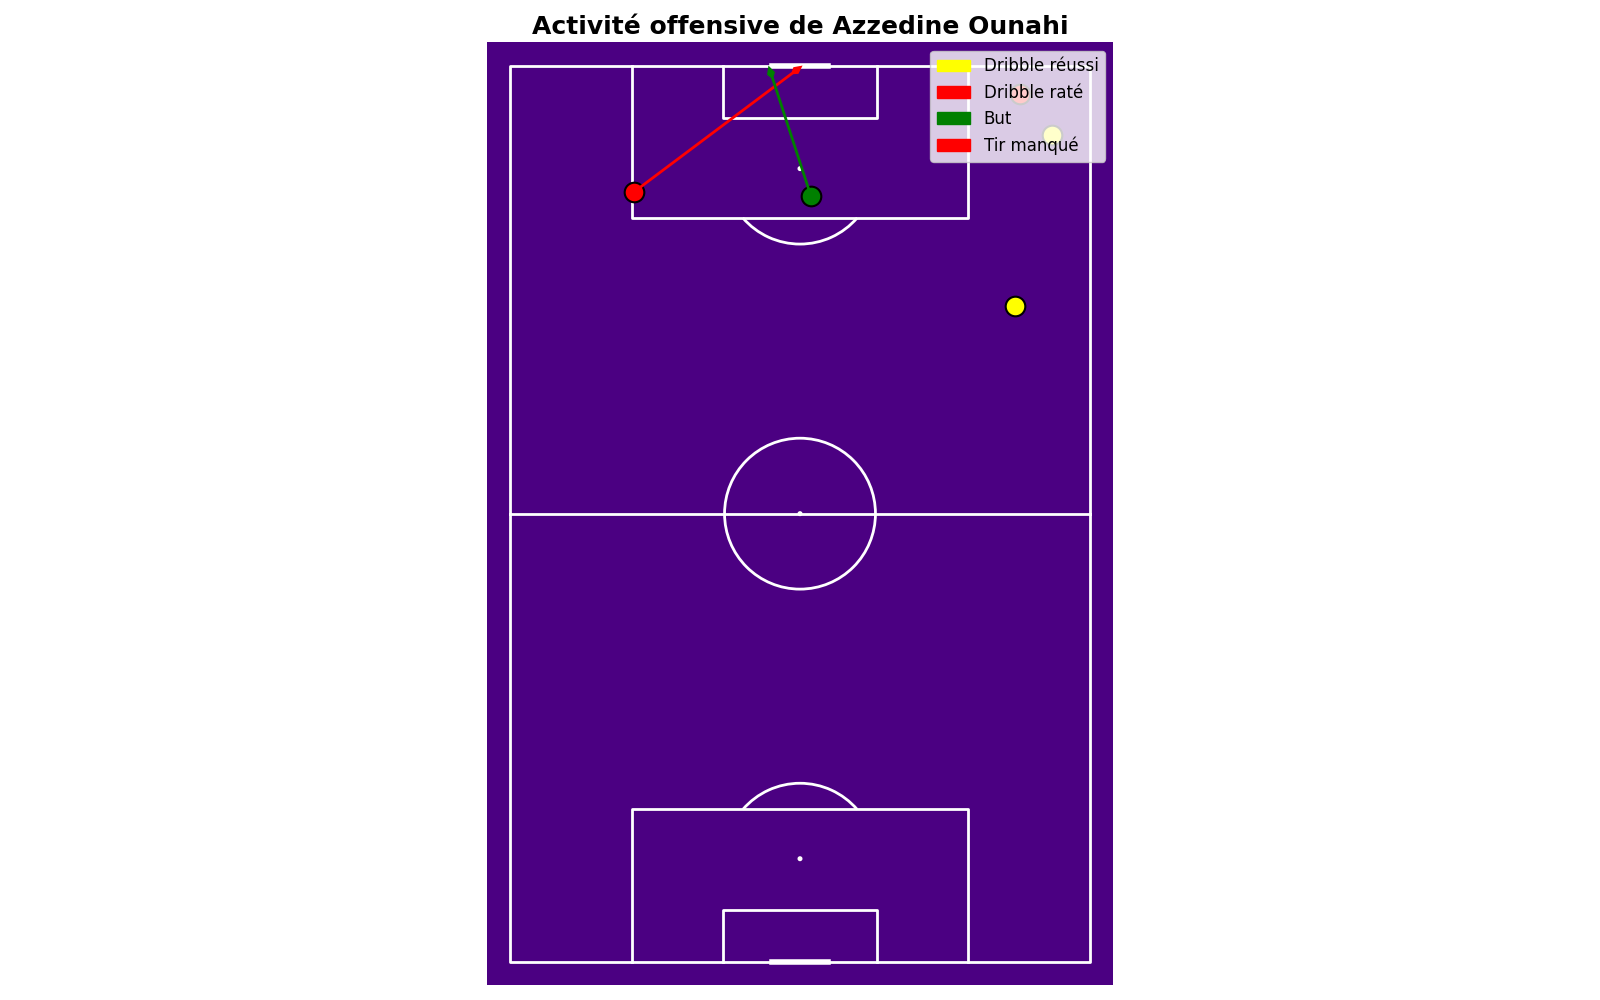
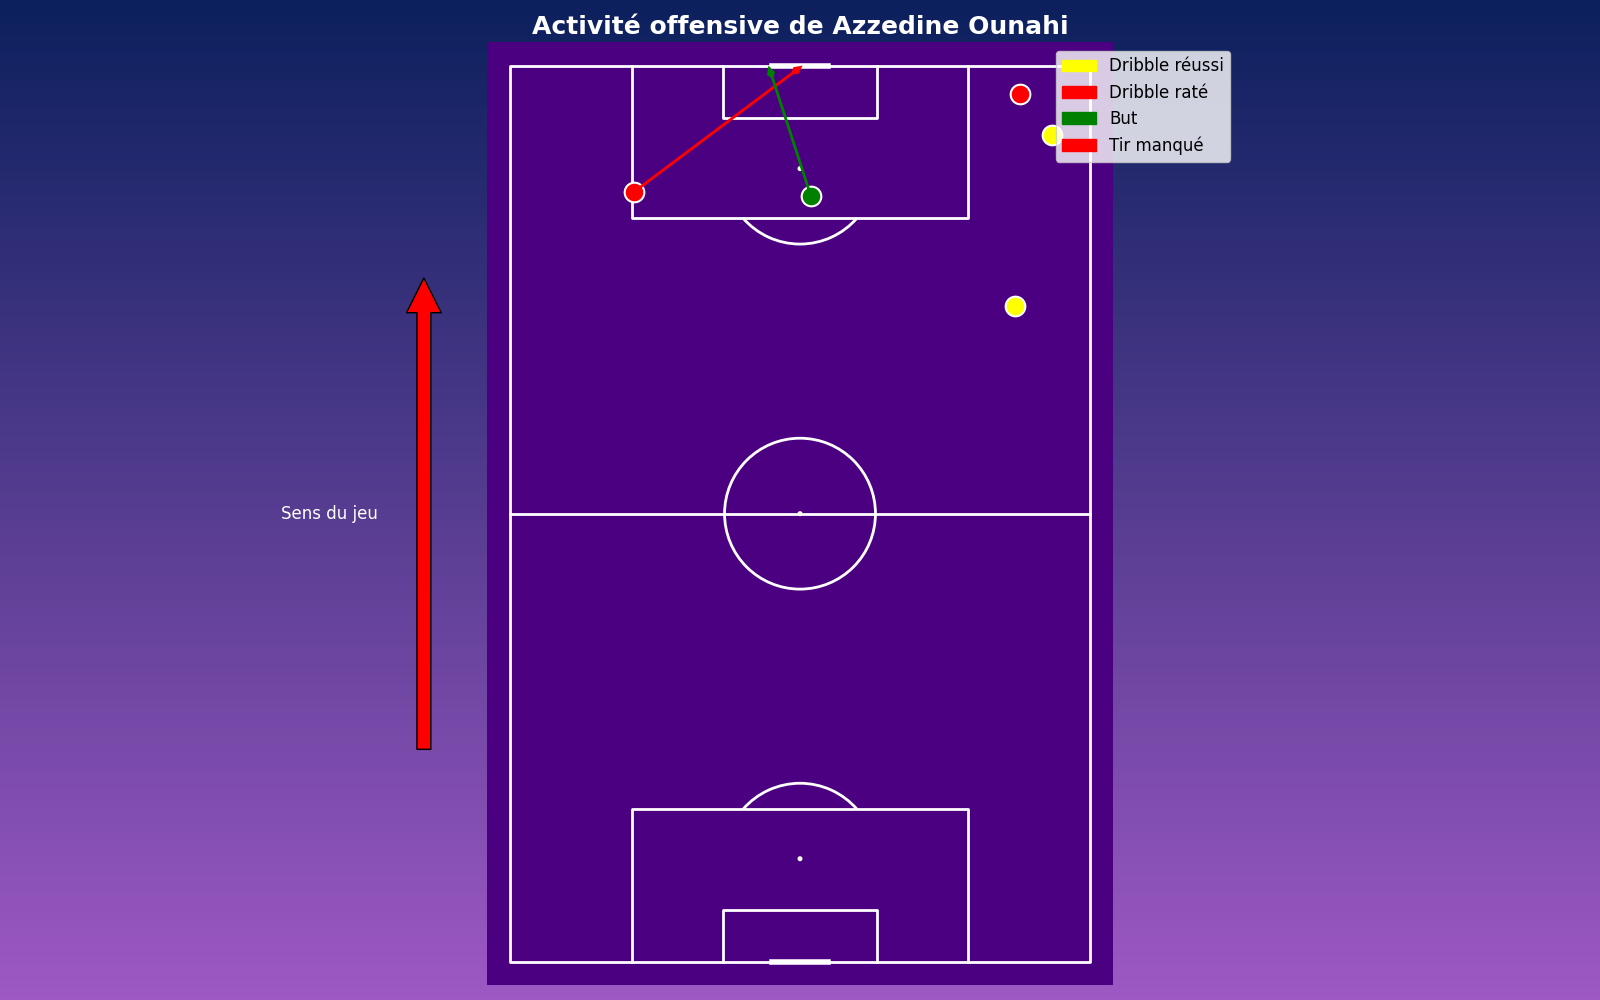
MAJ - nouveaux visu

diff --git a/src/player_visualizer.py b/src/player_visualizer.py
@@ -50,6 +50,7 @@ class PlayerVisualizer:
 
         forward_passes, lateral_passes, backward_passes, successful_passes, failed_passes = self._classify_passes(passes)
 
+        fig = plt.figure(figsize=(16, 10))
 
         # Choisir les deux couleurs en hexadecimal
         color1 = "#0c205d"  # Bleu foncé
@@ -147,8 +148,52 @@ class PlayerVisualizer:
         # Définir la couleur de fond globale
         background_color = '#8549B7'  # Violet foncé
     
-        # Création de la figure avec la couleur de fond
-        fig = plt.figure(figsize=(14, 12), facecolor=background_color)
+        # Choisir les deux couleurs en hexadecimal
+        color1 = "#0c205d"  # Bleu foncé
+        color2 = "#9e59c4"  # Violet
+
+        # Créer un gradient vertical (de haut en bas)
+        gradient = np.linspace(0, 1, 256).reshape(-1, 1)
+        gradient = np.hstack((gradient, gradient))
+
+        # Créer un colormap personnalisé à partir des couleurs hexadécimales
+        cmap = mcolors.LinearSegmentedColormap.from_list("", [color1, color2])
+
+        # Définir la couleur de fond globale
+        background_color = '#8549B7'  # Violet foncé
+    
+        # Choisir les deux couleurs en hexadecimal
+        color1 = "#0c205d"  # Bleu foncé
+        color2 = "#9e59c4"  # Violet
+
+        # Créer un gradient vertical (de haut en bas)
+        gradient = np.linspace(0, 1, 256).reshape(-1, 1)
+        gradient = np.hstack((gradient, gradient))
+
+        # Créer un colormap personnalisé à partir des couleurs hexadécimales
+        cmap = mcolors.LinearSegmentedColormap.from_list("", [color1, color2])
+
+        # Créer une figure
+        fig = plt.figure(figsize=(16, 10))
+
+        # Ajouter un axe qui occupe toute la figure
+        ax = fig.add_axes([0, 0, 1, 1])
+
+        # Désactiver les axes
+        ax.axis('off')
+
+        # Appliquer le gradient vertical avec les couleurs choisies
+        ax.imshow(gradient, aspect='auto', cmap=cmap, extent=[0, 1, 0, 1])
+
+        # Ajouter un axe qui occupe toute la figure
+        ax = fig.add_axes([0, 0, 1, 1])
+
+        # Désactiver les axes
+        ax.axis('off')
+
+        # Appliquer le gradient vertical avec les couleurs choisies
+        ax.imshow(gradient, aspect='auto', cmap=cmap, extent=[0, 1, 0, 1])
+        
         gs = GridSpec(2, 1, height_ratios=[1, 1], figure=fig)
     
         # Diagramme à barres verticales pour les statistiques globales
@@ -229,7 +274,7 @@ class PlayerVisualizer:
 
     def plot_defensive_activity(self, save_path):
         events = self.player_data.get('events', [])
-        
+
         # Filtrage des événements défensifs
         defensive_events = [
             event for event in events if event['type']['displayName'] in ['BallRecovery', 'Challenge', 'Tackle', 'Foul']
@@ -244,14 +289,41 @@ class PlayerVisualizer:
             'BallRecovery': 'o',  # Rond
             'Challenge': 's',     # Carré
             'Tackle': '^',        # Triangle
-            'Foul': '*',          # Étoile
+            'Foul': '*'           # Étoile
         }
         color_map = {
             'Successful': 'green',
             'Unsuccessful': 'red'
         }
 
-        fig, ax = plt.subplots(figsize=(16, 10))
+        # Définir la couleur de fond globale
+        background_color = '#8549B7'  # Violet foncé
+    
+        # Choisir les deux couleurs en hexadecimal
+        color1 = "#0c205d"  # Bleu foncé
+        color2 = "#9e59c4"  # Violet
+
+        # Créer un gradient vertical (de haut en bas)
+        gradient = np.linspace(0, 1, 256).reshape(-1, 1)
+        gradient = np.hstack((gradient, gradient))
+
+        # Créer un colormap personnalisé à partir des couleurs hexadécimales
+        cmap = mcolors.LinearSegmentedColormap.from_list("", [color1, color2])
+
+        # Créer une figure
+        fig = plt.figure(figsize=(16, 10))
+
+        # Ajouter un axe qui occupe toute la figure
+        ax = fig.add_axes([0, 0, 1, 1])
+
+        # Désactiver les axes
+        ax.axis('off')
+
+        # Appliquer le gradient vertical avec les couleurs choisies
+        ax.imshow(gradient, aspect='auto', cmap=cmap, extent=[0, 1, 0, 1])
+
+        # Créer l'axe
+        ax = fig.add_subplot(1, 1, 1)
 
         pitch = VerticalPitch(pitch_type='opta', pitch_color='#4b0082', line_color='white', linewidth=2)
         pitch.draw(ax=ax)
@@ -259,7 +331,7 @@ class PlayerVisualizer:
         # Ajout de la flèche rouge verticale avec un contour noir pour indiquer le sens du jeu
         ax.annotate('', xy=(-0.1, 0.75), xytext=(-0.1, 0.25), xycoords='axes fraction',
                     arrowprops=dict(facecolor='red', edgecolor='black', width=10, headwidth=25, headlength=25))
-        ax.text(-0.25, 0.5, "Sens du jeu", va='center', ha='center', fontsize=12, color='black', rotation=0, transform=ax.transAxes)
+        ax.text(-0.25, 0.5, "Sens du jeu", va='center', ha='center', fontsize=12, color='white', rotation=0, transform=ax.transAxes)
 
         # Parcours des événements défensifs
         for event in defensive_events:
@@ -270,7 +342,7 @@ class PlayerVisualizer:
             marker = symbol_map[event_type]
             color = color_map.get(outcome, 'green')  # Default to green if outcome not recognized
 
-            pitch.scatter(x, y, s=200, marker=marker, color=color, edgecolor='black', linewidth=1.5, ax=ax)
+            pitch.scatter(x, y, s=200, marker=marker, color=color, edgecolor='white', linewidth=1.5, ax=ax)
 
         # Création de la légende
         legend_handles = [
@@ -283,7 +355,7 @@ class PlayerVisualizer:
         ]
         ax.legend(handles=legend_handles, loc='upper right', bbox_to_anchor=(1.2, 1), fontsize=12)
 
-        ax.set_title(f"Activité défensive de {self.player_data['player_name']}", fontsize=18, fontweight='bold')
+        ax.set_title(f"Activité défensive de {self.player_data['player_name']}", fontsize=18, color='white', fontweight='bold')
 
         plt.tight_layout()
         plt.savefig(save_path)
@@ -301,7 +373,35 @@ class PlayerVisualizer:
             print(f"Aucune activité offensive trouvée pour {self.player_data['player_name']}. Aucun visuel généré.")
             return
 
-        fig, ax = plt.subplots(figsize=(16, 10))
+        # Définir la couleur de fond globale
+        background_color = '#8549B7'  # Violet foncé
+    
+        # Choisir les deux couleurs en hexadecimal
+        color1 = "#0c205d"  # Bleu foncé
+        color2 = "#9e59c4"  # Violet
+
+        # Créer un gradient vertical (de haut en bas)
+        gradient = np.linspace(0, 1, 256).reshape(-1, 1)
+        gradient = np.hstack((gradient, gradient))
+
+        # Créer un colormap personnalisé à partir des couleurs hexadécimales
+        cmap = mcolors.LinearSegmentedColormap.from_list("", [color1, color2])
+
+        # Créer une figure
+        fig = plt.figure(figsize=(16, 10))
+
+        # Ajouter un axe qui occupe toute la figure
+        ax = fig.add_axes([0, 0, 1, 1])
+
+        # Désactiver les axes
+        ax.axis('off')
+
+        # Appliquer le gradient vertical avec les couleurs choisies
+        ax.imshow(gradient, aspect='auto', cmap=cmap, extent=[0, 1, 0, 1])
+
+        # Créer l'axe
+        ax = fig.add_subplot(1, 1, 1)
+
         pitch = VerticalPitch(pitch_type='opta', pitch_color='#4b0082', line_color='white', linewidth=2)
         pitch.draw(ax=ax)
 
@@ -311,7 +411,7 @@ class PlayerVisualizer:
         # Ajout de la flèche rouge verticale avec un contour noir pour indiquer le sens du jeu
         ax.annotate('', xy=(-0.1, 0.75), xytext=(-0.1, 0.25), xycoords='axes fraction',
                     arrowprops=dict(facecolor='red', edgecolor='black', width=10, headwidth=25, headlength=25))
-        ax.text(-0.25, 0.5, "Sens du jeu", va='center', ha='center', fontsize=12, color='black', rotation=0, transform=ax.transAxes)
+        ax.text(-0.25, 0.5, "Sens du jeu", va='center', ha='center', fontsize=12, color='white', rotation=0, transform=ax.transAxes)
 
         for event in offensive_events:
             x, y = event['x'], event['y']
@@ -320,14 +420,14 @@ class PlayerVisualizer:
             if event_type == 'TakeOn':
                 marker = 'o'  # Rond pour les dribbles
                 color = 'yellow' if event['outcomeType']['displayName'] == 'Successful' else 'red'
-                pitch.scatter(x, y, s=200, marker=marker, color=color, edgecolor='black', linewidth=1.5, ax=ax)
+                pitch.scatter(x, y, s=200, marker=marker, color=color, edgecolor='white', linewidth=1.5, ax=ax)
 
             elif event_type in ['MissedShots', 'Goal']:
                 outcome = event['outcomeType']['displayName']
                 color = 'green' if event_type == 'Goal' else 'red'
 
                 # Ajouter le point de tir
-                pitch.scatter(x, y, s=200, color=color, edgecolor='black', linewidth=1.5, ax=ax)
+                pitch.scatter(x, y, s=200, color=color, edgecolor='white', linewidth=1.5, ax=ax)
 
                 # Trouver les coordonnées de la cible (la cage)
                 goalmouth_y = next((float(q['value']) for q in event['qualifiers'] if q['type']['displayName'] == 'GoalMouthY'), None)
@@ -348,7 +448,7 @@ class PlayerVisualizer:
         ]
         ax.legend(handles=legend_handles, loc='upper right', bbox_to_anchor=(1.2, 1), fontsize=12)
 
-        ax.set_title(f"Activité offensive de {self.player_data['player_name']}", fontsize=18, fontweight='bold')
+        ax.set_title(f"Activité offensive de {self.player_data['player_name']}", fontsize=18, color='white', fontweight='bold')
 
         plt.tight_layout()
         plt.savefig(save_path_pitch)
@@ -356,15 +456,43 @@ class PlayerVisualizer:
 
         # Générer le visuel de la cage
         if shots:
-            fig, ax = plt.subplots(figsize=(7.32, 2.44))  # Adapter la taille du graphique aux dimensions réelles
+            fig = plt.figure(figsize=(7.32, 2.44))  # Adapter la taille du graphique aux dimensions réelles
+
+            # Définir la couleur de fond globale
+            background_color = '#8549B7'  # Violet foncé
+
+            # Choisir les deux couleurs en hexadecimal
+            color1 = "#0c205d"  # Bleu foncé
+            color2 = "#9e59c4"  # Violet
+
+            # Créer un gradient vertical (de haut en bas)
+            gradient = np.linspace(0, 1, 256).reshape(-1, 1)
+            gradient = np.hstack((gradient, gradient))
+
+            # Créer un colormap personnalisé à partir des couleurs hexadécimales
+            cmap = mcolors.LinearSegmentedColormap.from_list("", [color1, color2])
+
+            # Créer une figure
+            fig = plt.figure(figsize=(7.32, 2.44))
+
+            # Ajouter un axe qui occupe toute la figure
+            ax = fig.add_axes([0, 0, 1, 1])
+
+            # Désactiver les axes
+            ax.axis('off')
+
+            # Appliquer le gradient vertical avec les couleurs choisies
+            ax.imshow(gradient, aspect='auto', cmap=cmap, extent=[0, 1, 0, 1])
+            # Créer l'axe
+            ax = fig.add_subplot(1, 1, 1)
+
             ax.set_xlim(0, 7.32)  # Largeur de la cage en mètres
             ax.set_ylim(0, 2.44)  # Hauteur de la cage en mètres
             ax.set_aspect('equal')
-            ax.set_title("Vue frontale des tirs")
+            ax.set_title("Vue frontale des tirs",color='white')
 
             # Normaliser les coordonnées pour correspondre aux dimensions réelles de la cage
             for y, z, color in shots:
-                # Le y est sur une échelle de 0 à 100, le z aussi, il faut donc normaliser pour les dimensions réelles
                 real_y = (y / 100) * 7.32
                 real_z = (z / 100) * 2.44
                 ax.scatter(real_y, real_z, s=200, color=color, edgecolor='black', linewidth=1.5)
@@ -374,10 +502,10 @@ class PlayerVisualizer:
             ax.set_yticks([])
 
             # Dessiner les lignes de la cage
-            ax.axhline(y=0, color='black')  # Bas de la cage
-            ax.axhline(y=2.44, color='black')  # Haut de la cage
-            ax.axvline(x=0, color='black')  # Côté gauche
-            ax.axvline(x=7.32, color='black')  # Côté droit
+            ax.axhline(y=0, color='grey')  # Bas de la cage
+            ax.axhline(y=2.44, color='grey')  # Haut de la cage
+            ax.axvline(x=0, color='grey')  # Côté gauche
+            ax.axvline(x=7.32, color='grey')  # Côté droit
 
             # Ajouter la légende pour la vue frontale des tirs
             legend_handles = [
@@ -389,6 +517,7 @@ class PlayerVisualizer:
             plt.tight_layout()
             plt.savefig(save_path_goal)
             plt.close()
+
 
     def _process_stats_data(self):
         stats = self.player_data.get('stats', {})
